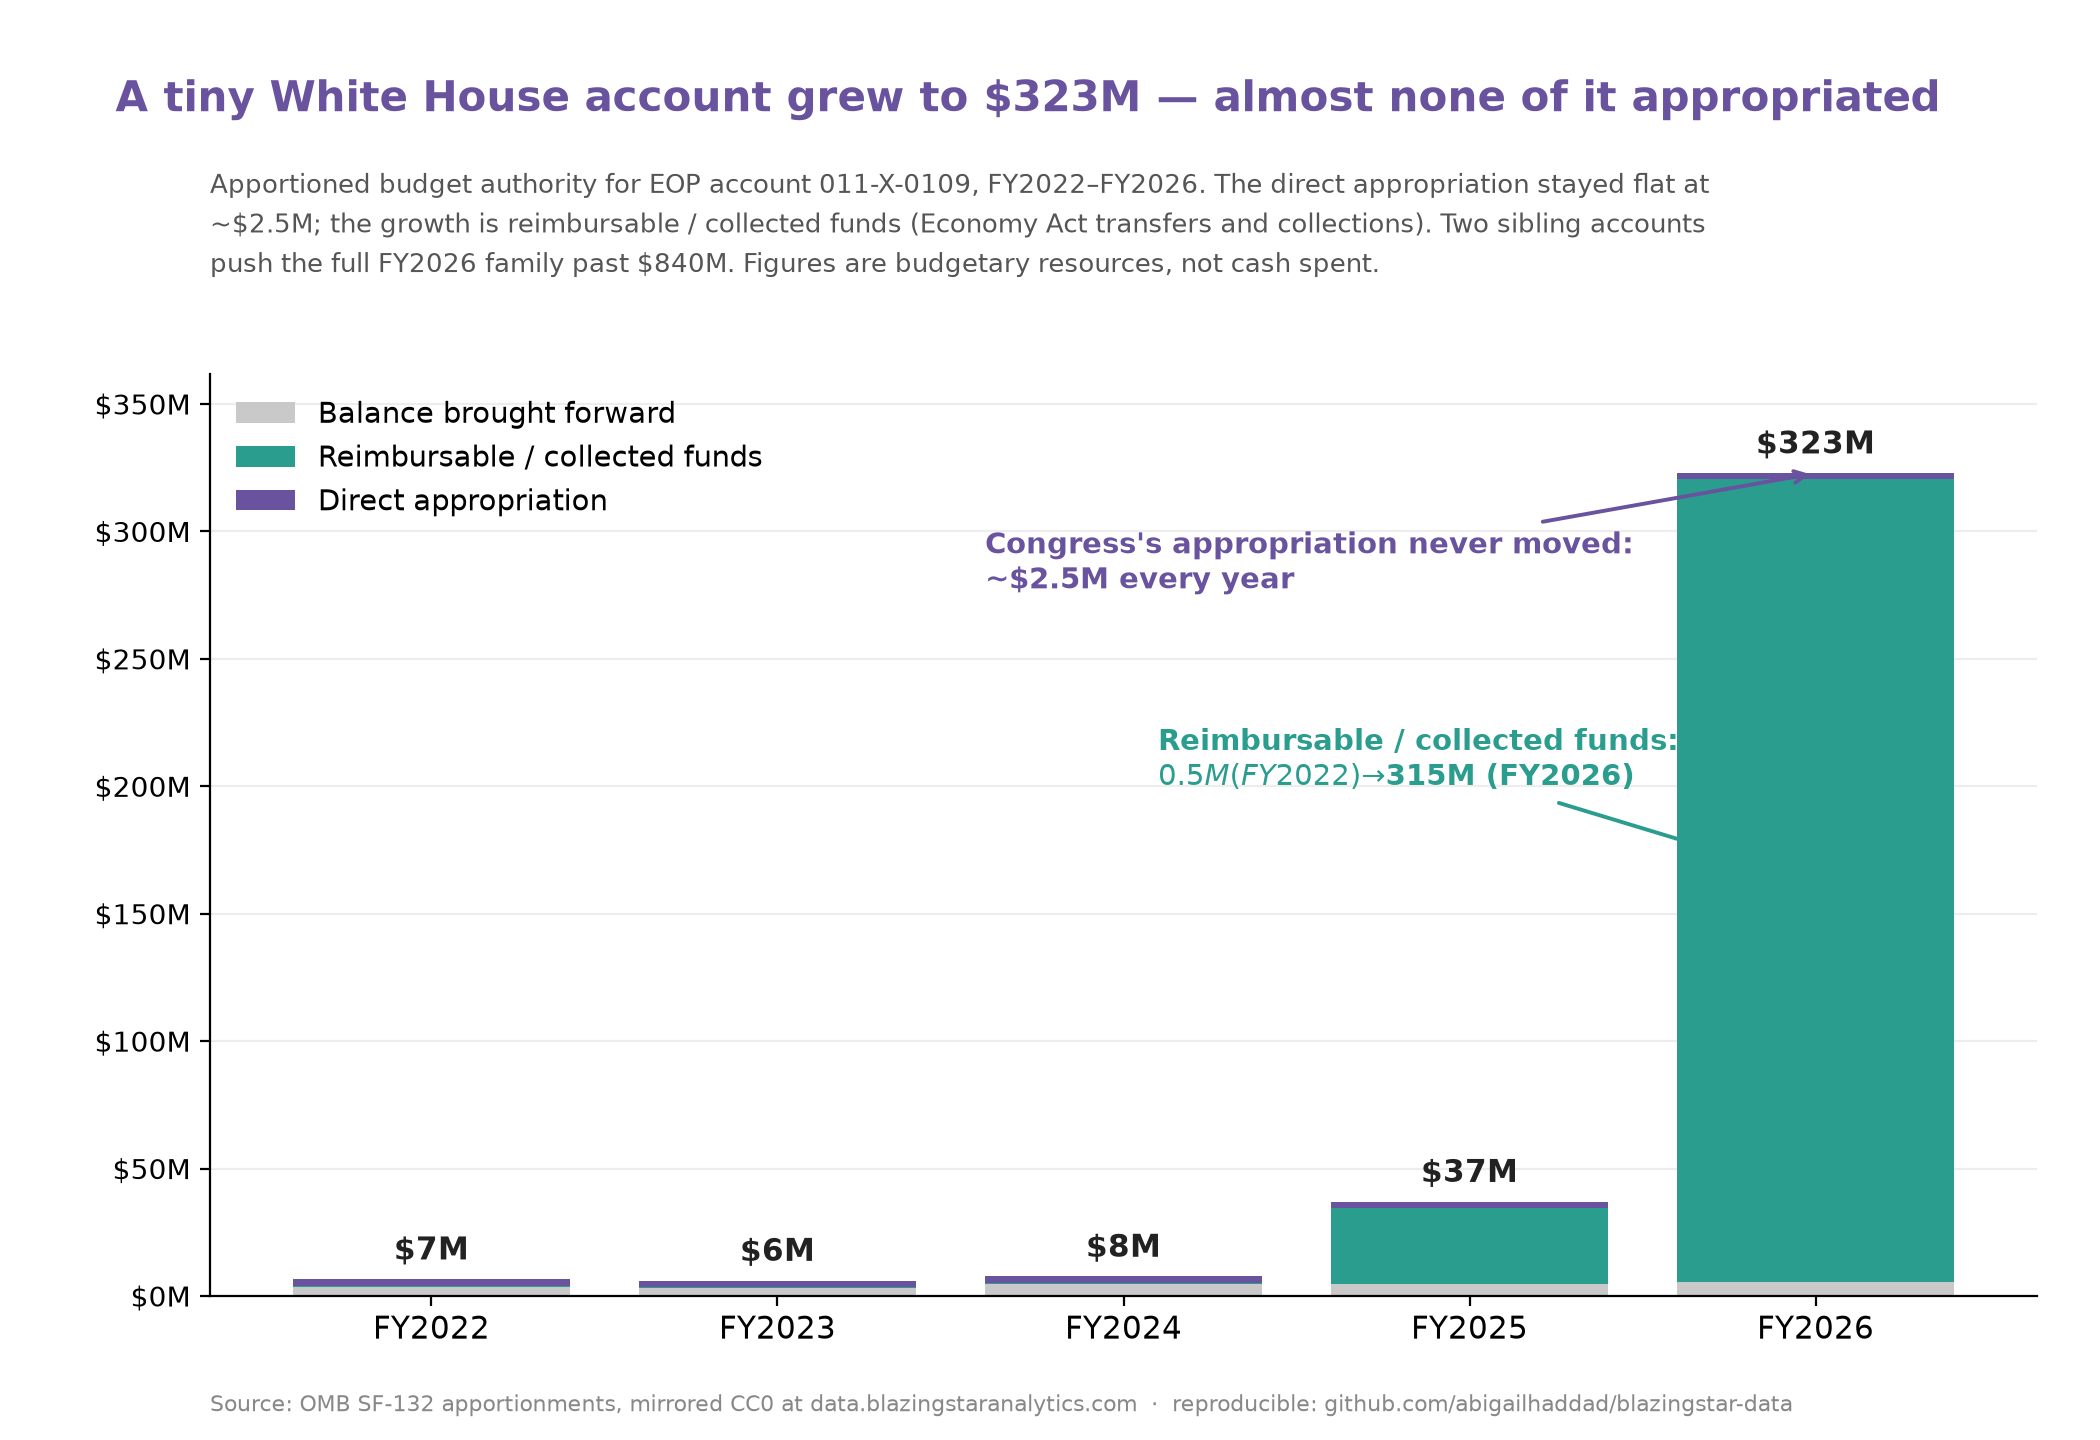
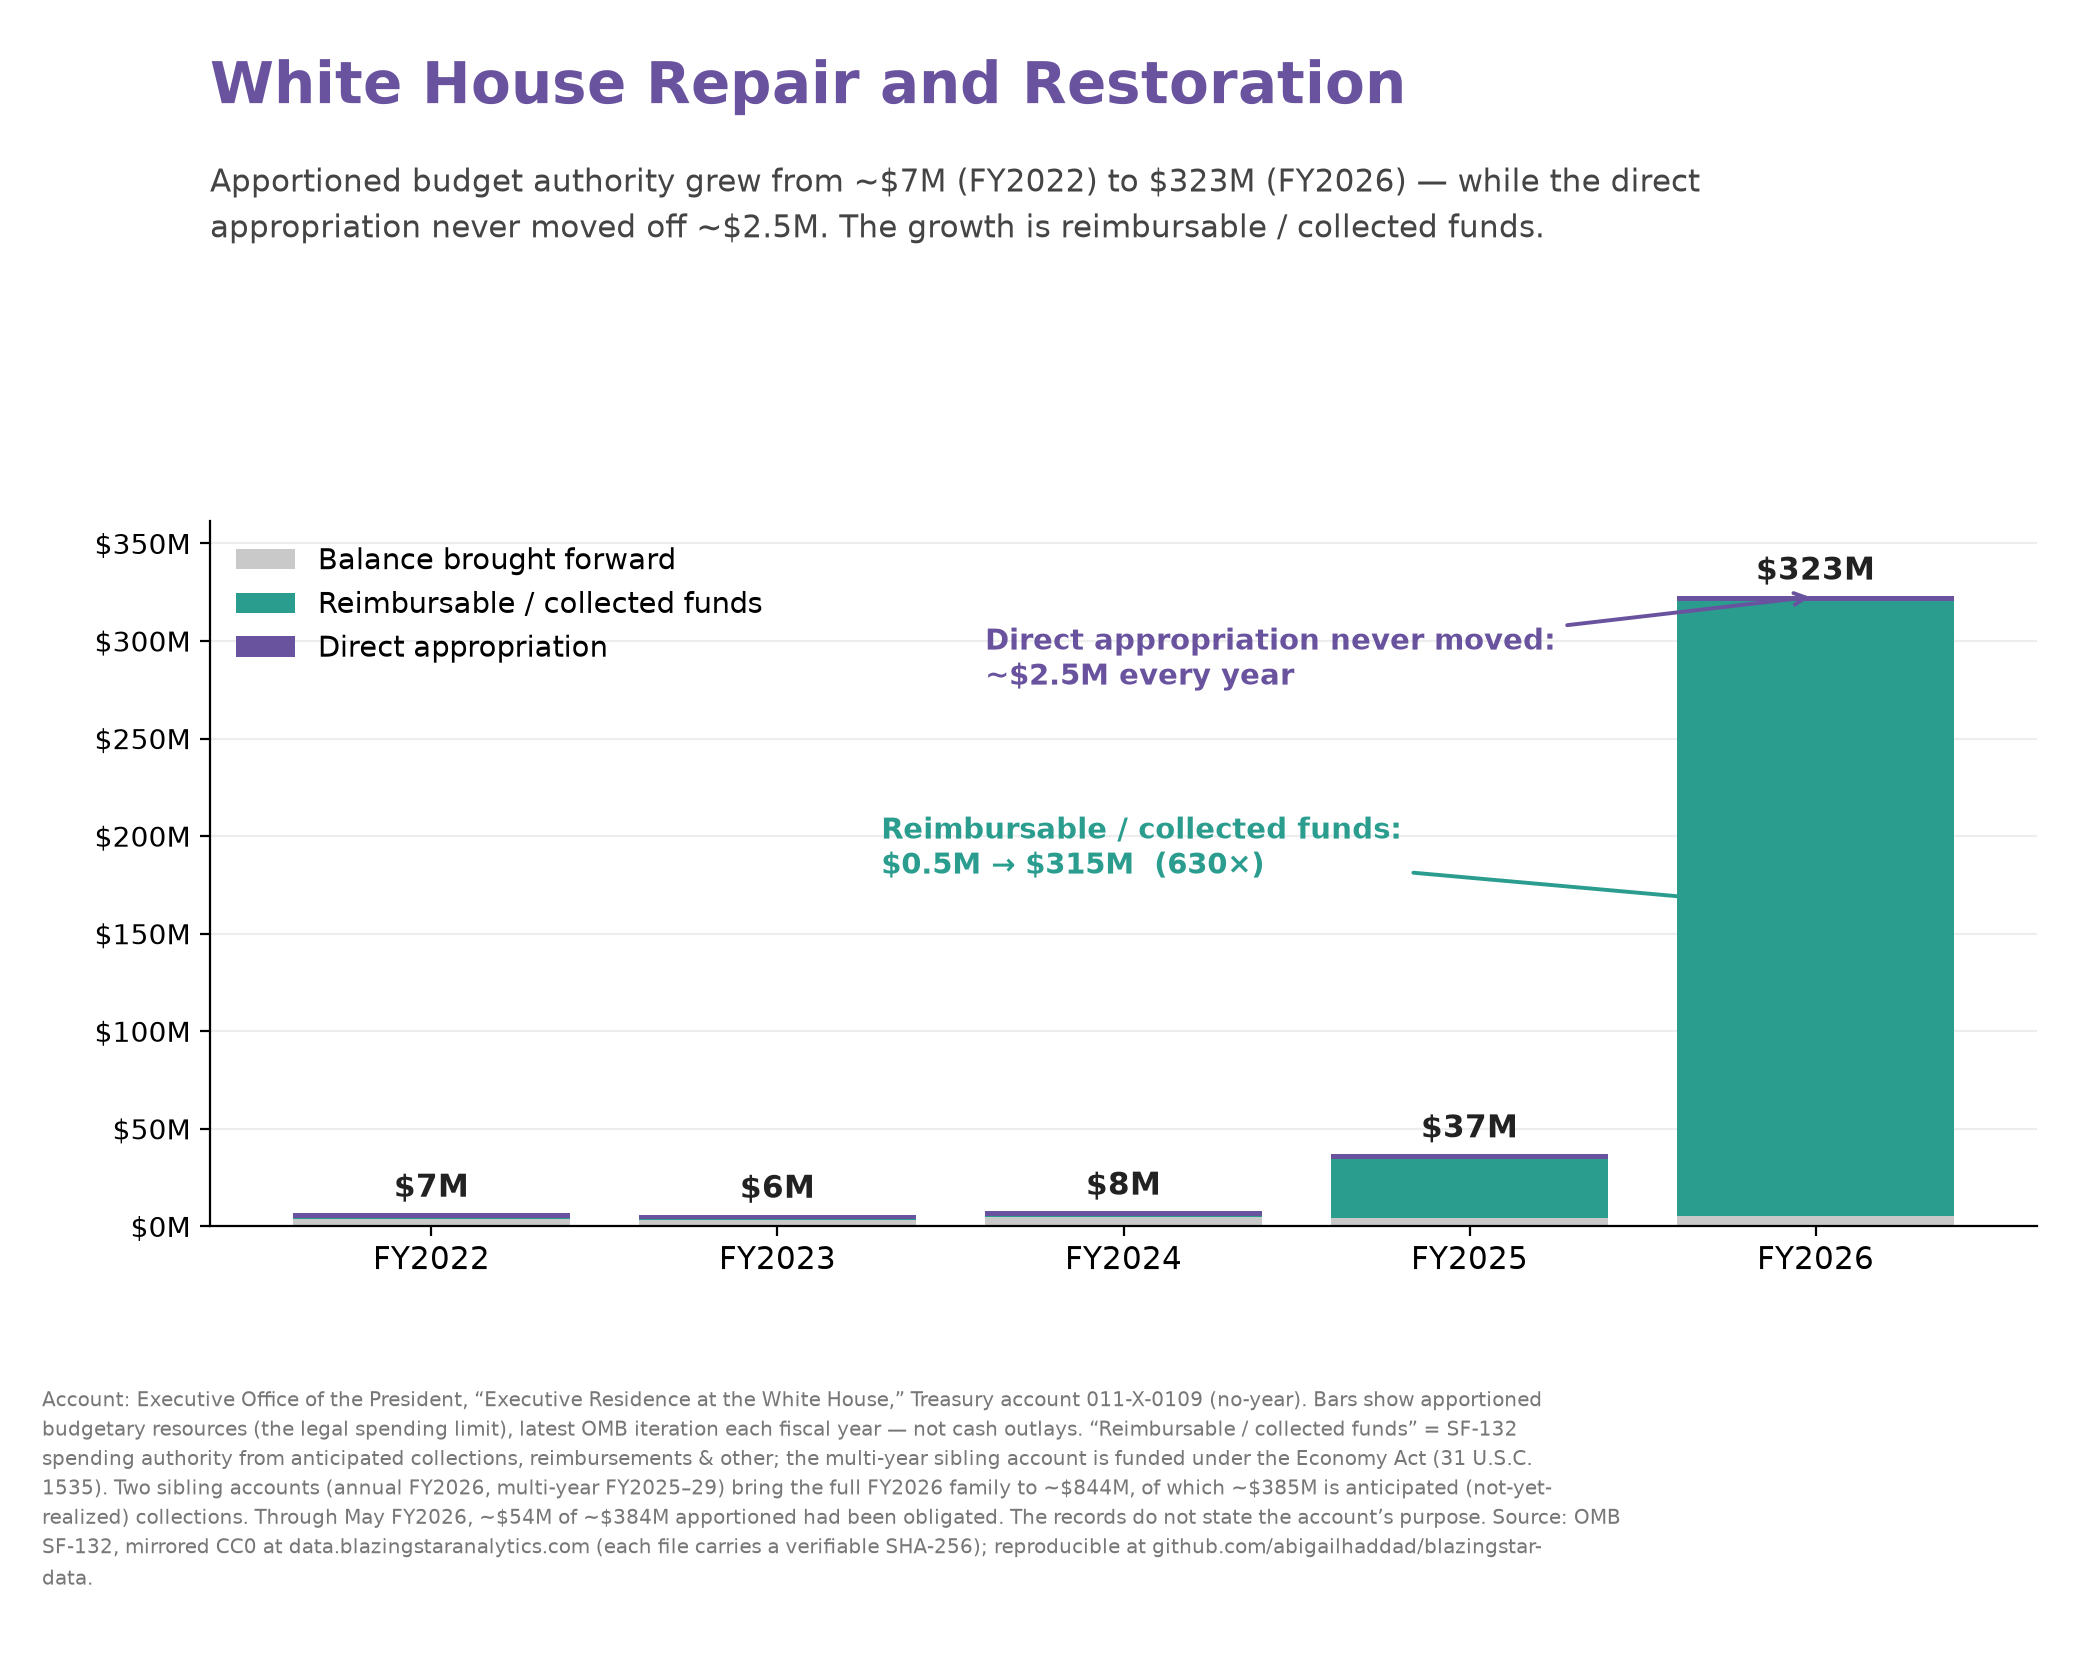
Add White House account notebook; tidy repo
- white_house_account.ipynb: self-contained, runnable deep-dive of EOP account
  011-X-0109 with the account name prominent and full methodology/caveats in the
  chart footnote. Replaces make_account_story.py (removed — one source of truth).
- requirements.txt: add jinja2 (pandas .style tables), clarify matplotlib.
- CI smoke workflow now executes both notebooks.
- README refreshed for two notebooks (account deep-dive gets its own section +
  Colab badge).

diff --git a/README.md b/README.md
@@ -60,7 +60,7 @@ legal spending limit on a TAFS, the SF-133 reports execution against it, and
 awards in USAspending draw down from it. That's the appropriation → apportionment
 → execution → award chain on a single identifier.
 
-## What the notebook does
+## What `demo.ipynb` does
 
 - **Access tour** — fetches every dataset into a pandas DataFrame, with each
   record's federal `source_url` carried alongside. Fiscal years are set in a
@@ -81,9 +81,9 @@ awards in USAspending draw down from it. That's the appropriation → apportionm
   apportionment file and an SF-133 spreadsheet to confirm byte-equivalence with
   OMB.
 
-A weekly GitHub Action (`.github/workflows/smoke.yml`) executes the whole
-notebook against the live endpoints, so a moved or reshaped endpoint surfaces as
-a failed run rather than as a surprise for the next reader.
+A weekly GitHub Action (`.github/workflows/smoke.yml`) executes both notebooks
+against the live endpoints, so a moved or reshaped endpoint surfaces as a failed
+run rather than as a surprise for the next reader.
 
 ### A note on sourcing
 
@@ -95,7 +95,7 @@ the access path; for apportionment/SF-133 figures you can also cite the
 recomputed SHA-256 to assert byte-equivalence with OMB. See the closing "How to
 cite" cell.
 
-## Example chart
+## Weekly re-apportionment chart
 
 `make_weekly_chart.py` renders the week's largest OMB re-apportionments to
 `weekly_reapportionments.png` (regenerate any time — the data updates nightly):
@@ -106,22 +106,24 @@ cite" cell.
 python make_weekly_chart.py
 ```
 
-### Account deep-dive
+## Account deep-dive: White House Repair and Restoration
 
-`make_account_story.py` traces one Treasury account over time. The included
-example follows the White House "Repair and Restoration" account (EOP
-`011-X-0109`): apportioned budget authority grew from ~$6M (FY2022) to $323M
-(FY2026) while the direct appropriation never moved off ~$2.5M — the growth is
-entirely reimbursable/collected funds.
+`white_house_account.ipynb` is a self-contained walk-through of one Treasury
+account over time (EOP `011-X-0109`). Apportioned budget authority grew from
+~$6M (FY2022) to $323M (FY2026) while the direct appropriation never moved off
+~$2.5M — the growth is entirely reimbursable/collected funds. Runs top to
+bottom; the chart's footnote carries the full methodology and caveats.
+
+[![Open In Colab](https://colab.research.google.com/assets/colab-badge.svg)](https://colab.research.google.com/github/abigailhaddad/blazingstar-data/blob/main/white_house_account.ipynb)
 
 ![White House Repair and Restoration account over time](white_house_account.png)
 
 ## Files
 
-- `demo.ipynb` — the notebook described above.
-- `make_weekly_chart.py` — renders the weekly re-apportionment chart (needs `matplotlib`).
-- `make_account_story.py` — charts one account's funding history over time (needs `matplotlib`).
-- `requirements.txt` — `requests`, `pandas`, `openpyxl`, `matplotlib`.
+- `demo.ipynb` — the access-tour notebook described above.
+- `white_house_account.ipynb` — the account deep-dive (generates `white_house_account.png`).
+- `make_weekly_chart.py` — renders the weekly re-apportionment chart (`weekly_reapportionments.png`).
+- `requirements.txt` — `requests`, `pandas`, `openpyxl`, `matplotlib`, `jinja2`.
 
 ## License
 